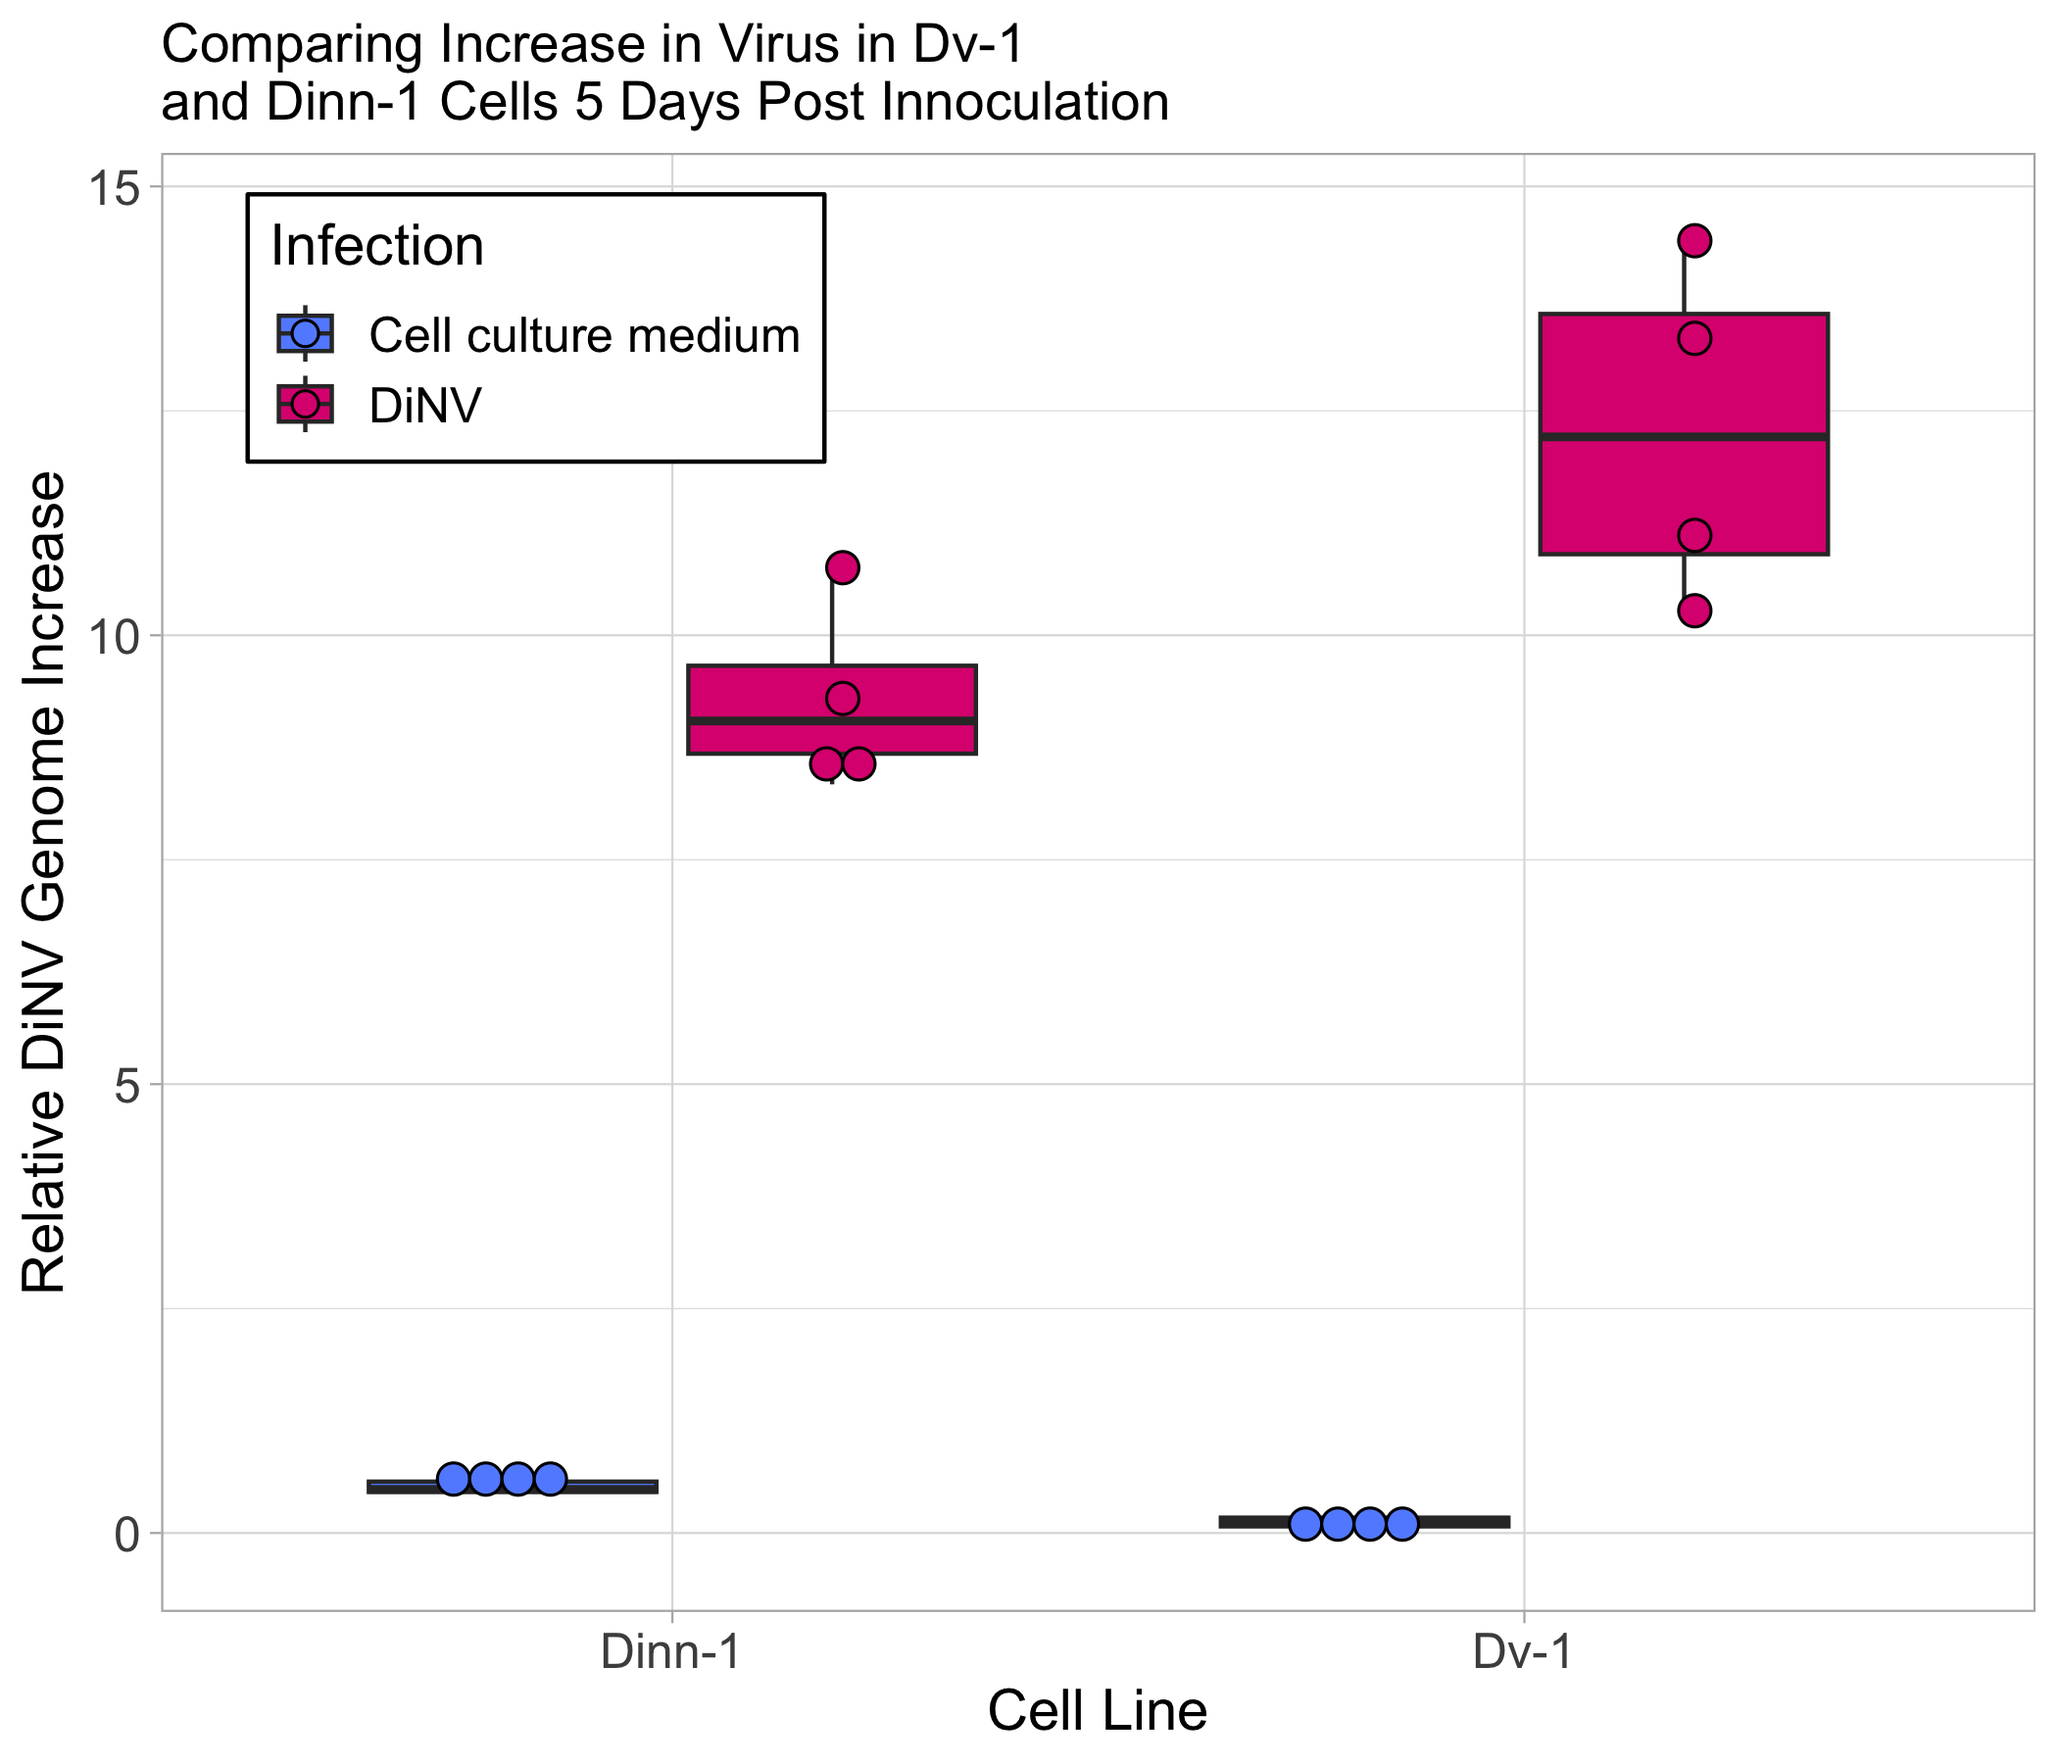
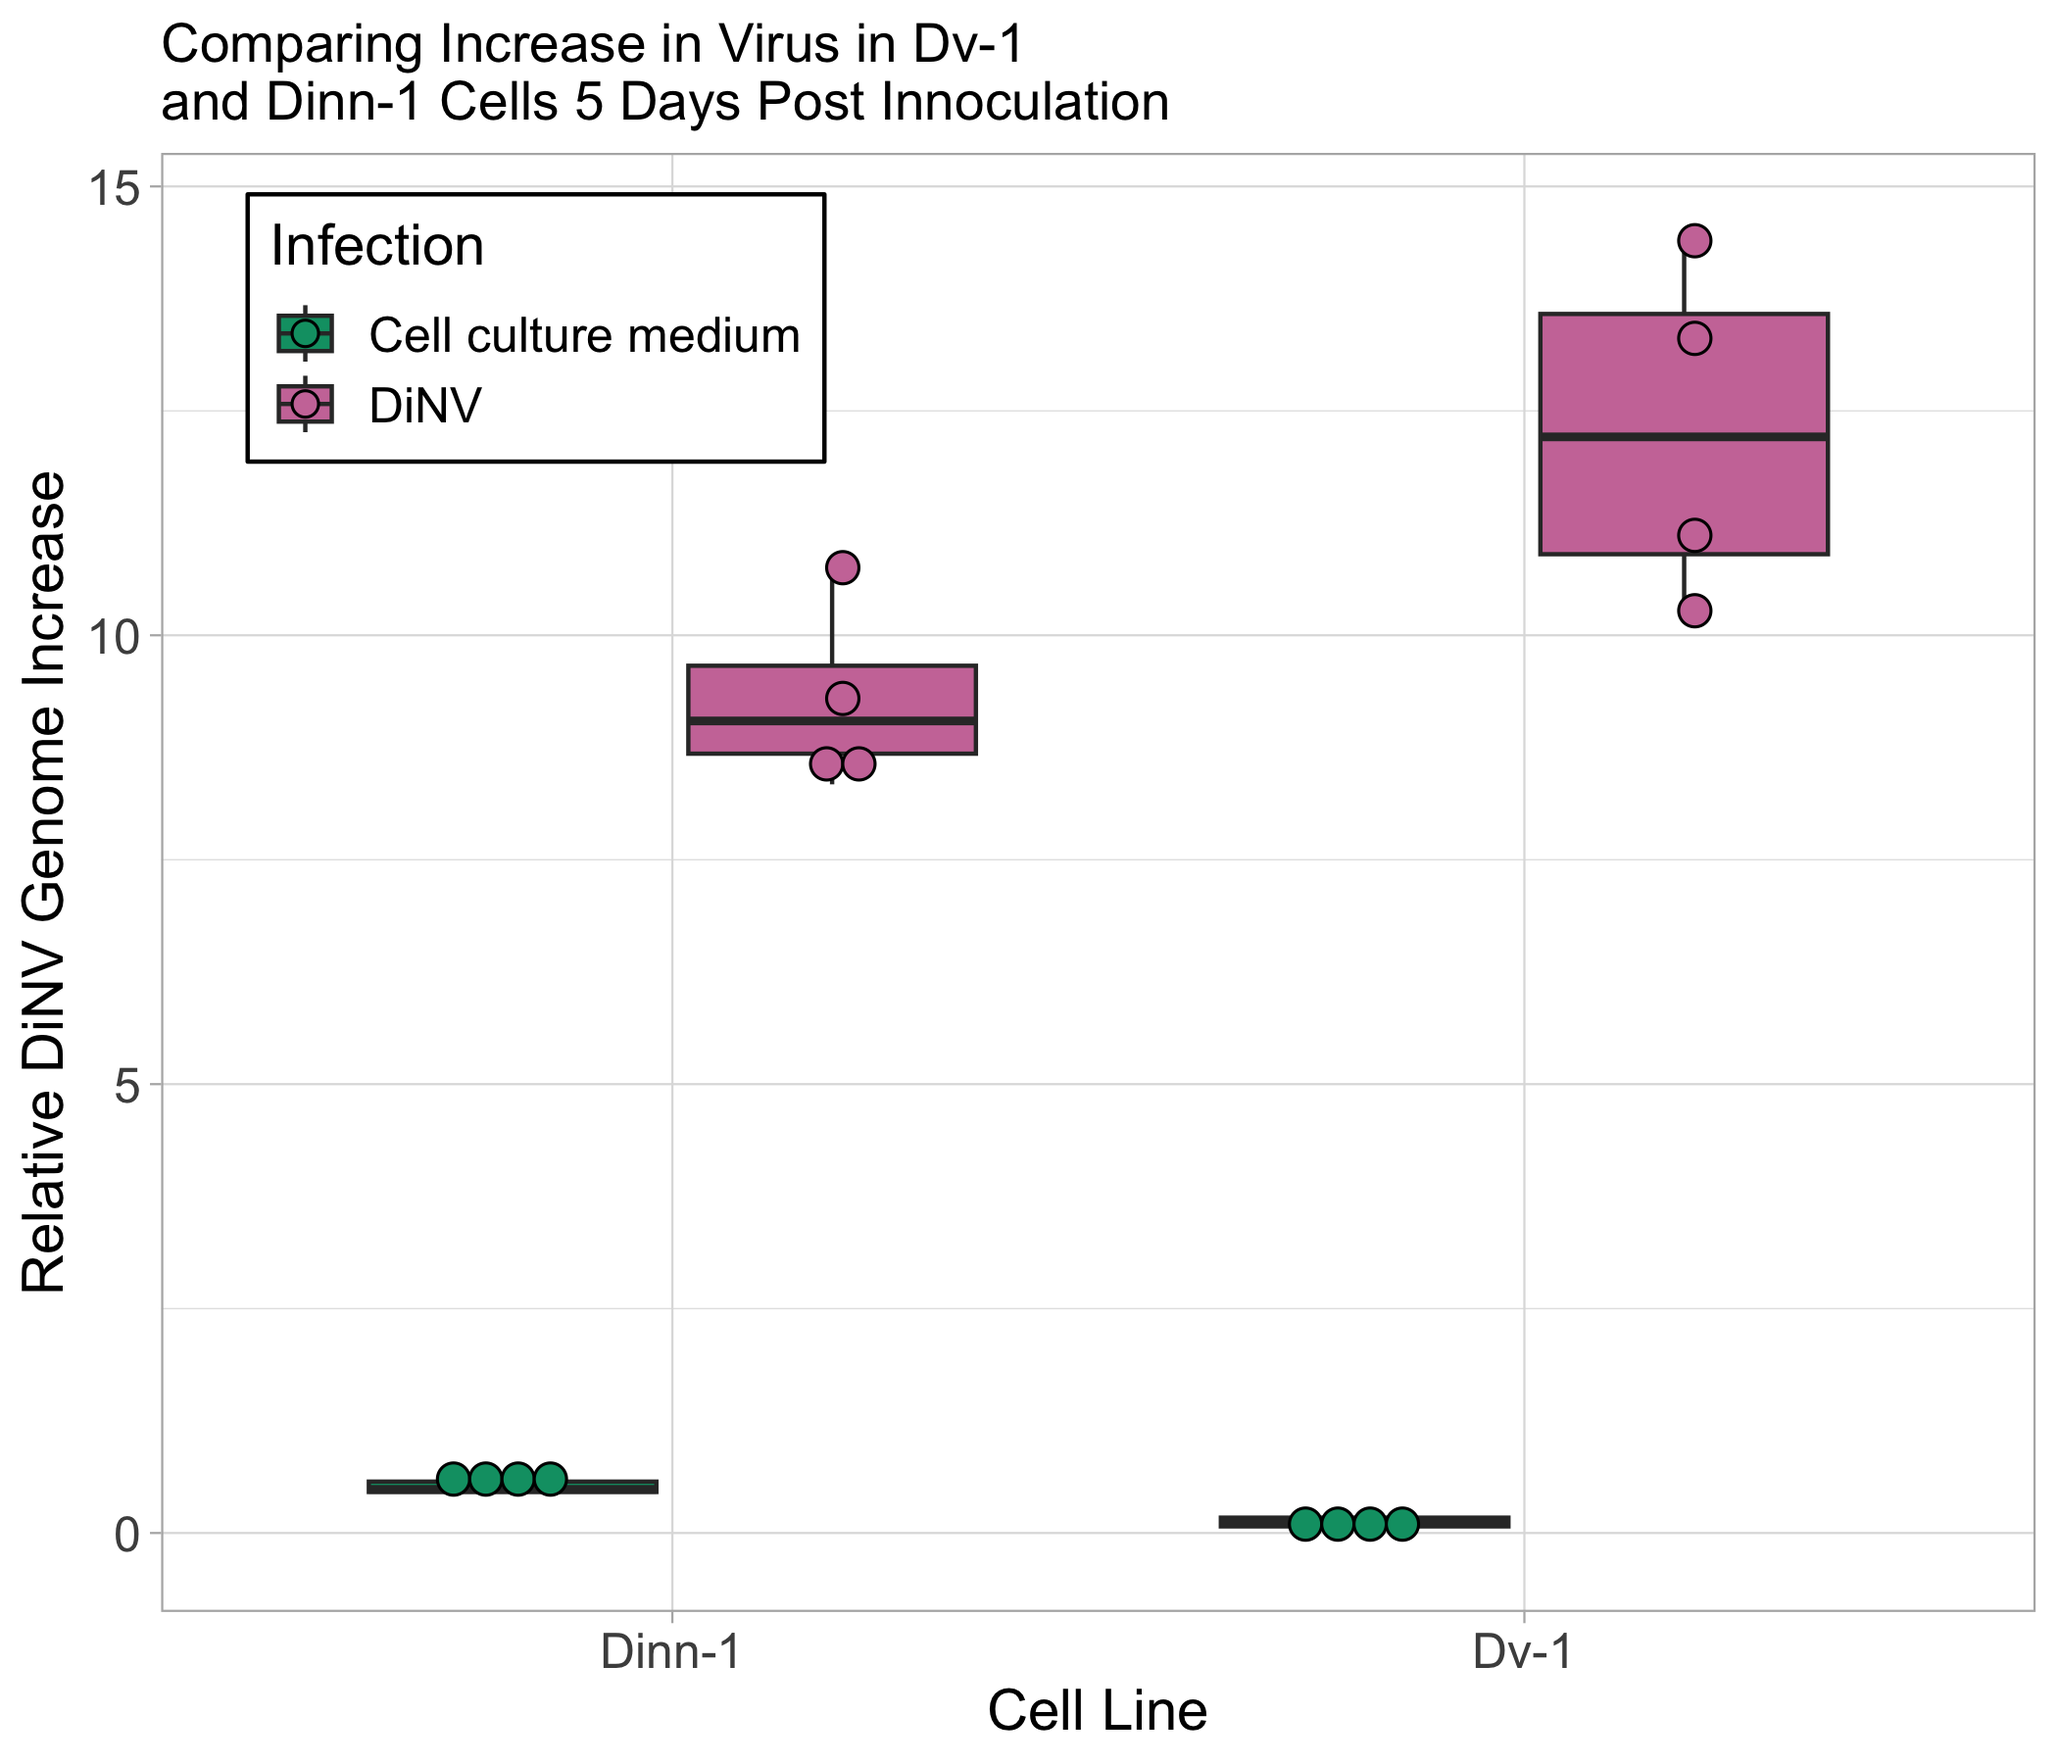
updating figures for paper

diff --git a/qPCR_analysis/20240330-Dinn-Dv-1/20240330-Dinn-Dv-1.md b/qPCR_analysis/20240330-Dinn-Dv-1/20240330-Dinn-Dv-1.md
@@ -1380,7 +1380,7 @@ Lambda comparison Putting legend in the plot and changing colors
 legend_title <- "Infection"
 
 # plot 
-ggplot(delta_delta, aes(y= delta_delta_Cq_2, x=cell_type, fill=infection)) + geom_boxplot(outlier.shape=NA)  + theme_light()  + scale_fill_manual(legend_title, values=c("#648FFF", "#DC267F"), labels= c("Cell culture medium", "DiNV")) + geom_dotplot(binaxis='y', stackdir='center', dotsize=0.75, position=position_dodge(0.8)) + scale_x_discrete(labels=c("DV-1" = "Dv-1", "Dinn" = "Dinn-1"))+ 
+ggplot(delta_delta, aes(y= delta_delta_Cq_2, x=cell_type, fill=infection)) + geom_boxplot(outlier.shape=NA)  + theme_light()  + scale_fill_manual(legend_title, values=c("#009E73", "#CC79A7"), labels= c("Cell culture medium", "DiNV")) + geom_dotplot(binaxis='y', stackdir='center', dotsize=0.75, position=position_dodge(0.8)) + scale_x_discrete(labels=c("DV-1" = "Dv-1", "Dinn" = "Dinn-1"))+ 
   theme(axis.text=element_text(size=12),axis.title=element_text(size=14), legend.text=element_text(size=12), legend.title=element_text(size=14), legend.position = c(0.2, 0.85), 
         legend.background = element_rect(colour = 'black', fill = 'white', linetype='solid')) +
   labs(title = "Comparing Increase in Virus in Dv-1 \nand Dinn-1 Cells 5 Days Post Innoculation",y = "Relative DiNV Genome Increase", x = "Cell Line")
@@ -1397,7 +1397,7 @@ Cell primers Putting legend in the plot and changing colors
 legend_title <- "Infection"
 
 # plot 
-ggplot(Cdelta_delta, aes(y= delta_delta_Cq_2, x=cell_type, fill=infection)) + geom_boxplot(outlier.shape=NA)  + theme_light()  + scale_fill_manual(legend_title, values=c("#648FFF", "#DC267F"), labels= c("Cell culture medium", "DiNV")) + geom_dotplot(binaxis='y', stackdir='center', dotsize=0.75, position=position_dodge(0.8)) + scale_x_discrete(labels=c("DV-1" = "Dv-1", "Dinn" = "Dinn-1"))+ 
+ggplot(Cdelta_delta, aes(y= delta_delta_Cq_2, x=cell_type, fill=infection)) + geom_boxplot(outlier.shape=NA)  + theme_light()  + scale_fill_manual(legend_title, values=c("#009E73", "#CC79A7"), labels= c("Cell culture medium", "DiNV")) + geom_dotplot(binaxis='y', stackdir='center', dotsize=0.75, position=position_dodge(0.8)) + scale_x_discrete(labels=c("DV-1" = "Dv-1", "Dinn" = "Dinn-1"))+ 
   theme(axis.text=element_text(size=12),axis.title=element_text(size=14), legend.text=element_text(size=12), legend.title=element_text(size=14), legend.position = c(0.2, 0.88), 
         legend.background = element_rect(colour = 'black', fill = 'white', linetype='solid')) +
   labs(title = "Comparing Increase in Virus in Dv-1 \nand Dinn-1 Cells 5 Days Post Innoculation",y = "Relative DiNV Genome Increase", x = "Cell Line")
